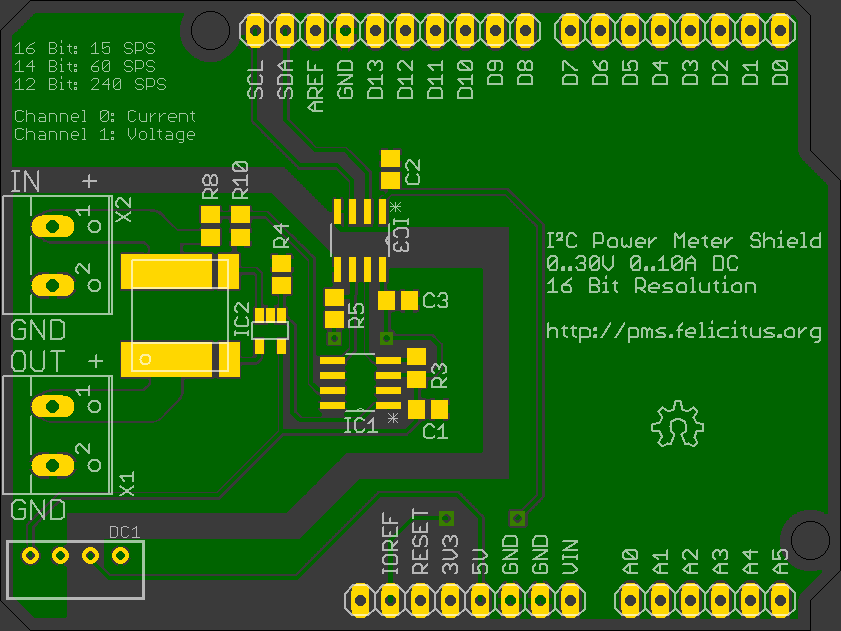
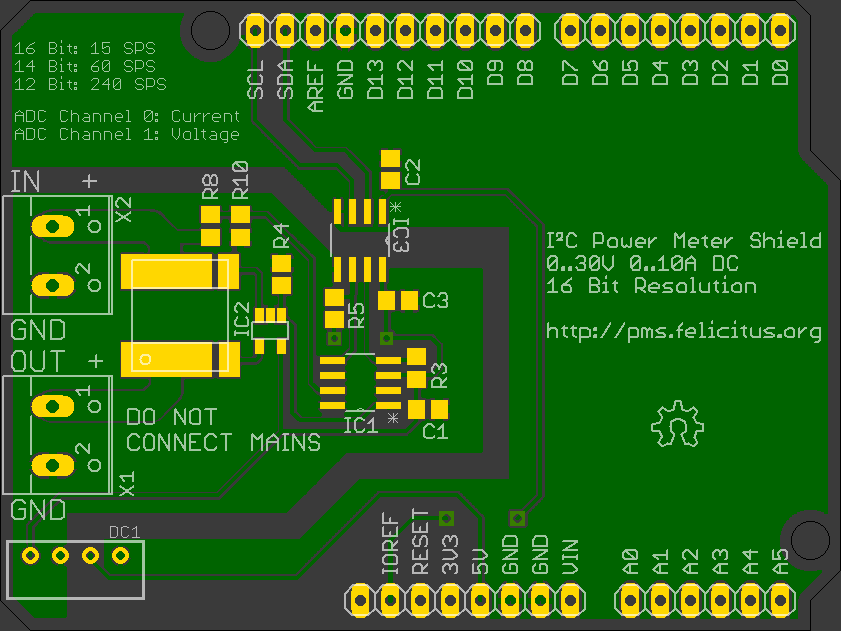
Added use cases to the README, added mains warning

Changed region(s): [[0.0309, 0.1807, 0.2782, 0.2409], [0.1546, 0.6323, 0.2782, 0.7227], [0.3092, 0.6926, 0.371, 0.7227]]

diff --git a/README.md b/README.md
@@ -15,6 +15,15 @@ Additionally, the design uses a 5V DC-DC converter and the ADUM1250 I²C isolato
 * Short-circuit protection
 * No need to have common GND with your arduino
 
+Usage Ideas
+===========
+
+* Combine this shield with an SD card shield to create a data-logging multimeter.
+* Combine this shield with a WiFi-Shield to log data to the internet.
+* Use the WiFi shield with a solar panel to measure how much power you harvest
+* Measure the power consumption of your QuadCopter during flight
+
+
 Issues
 ======
 Because we measure current and voltage at the same time, there will be a small error of 0.005V/A in your measurements. A relais to switch between current and voltage measurements was skipped in order to keep the costs down.
